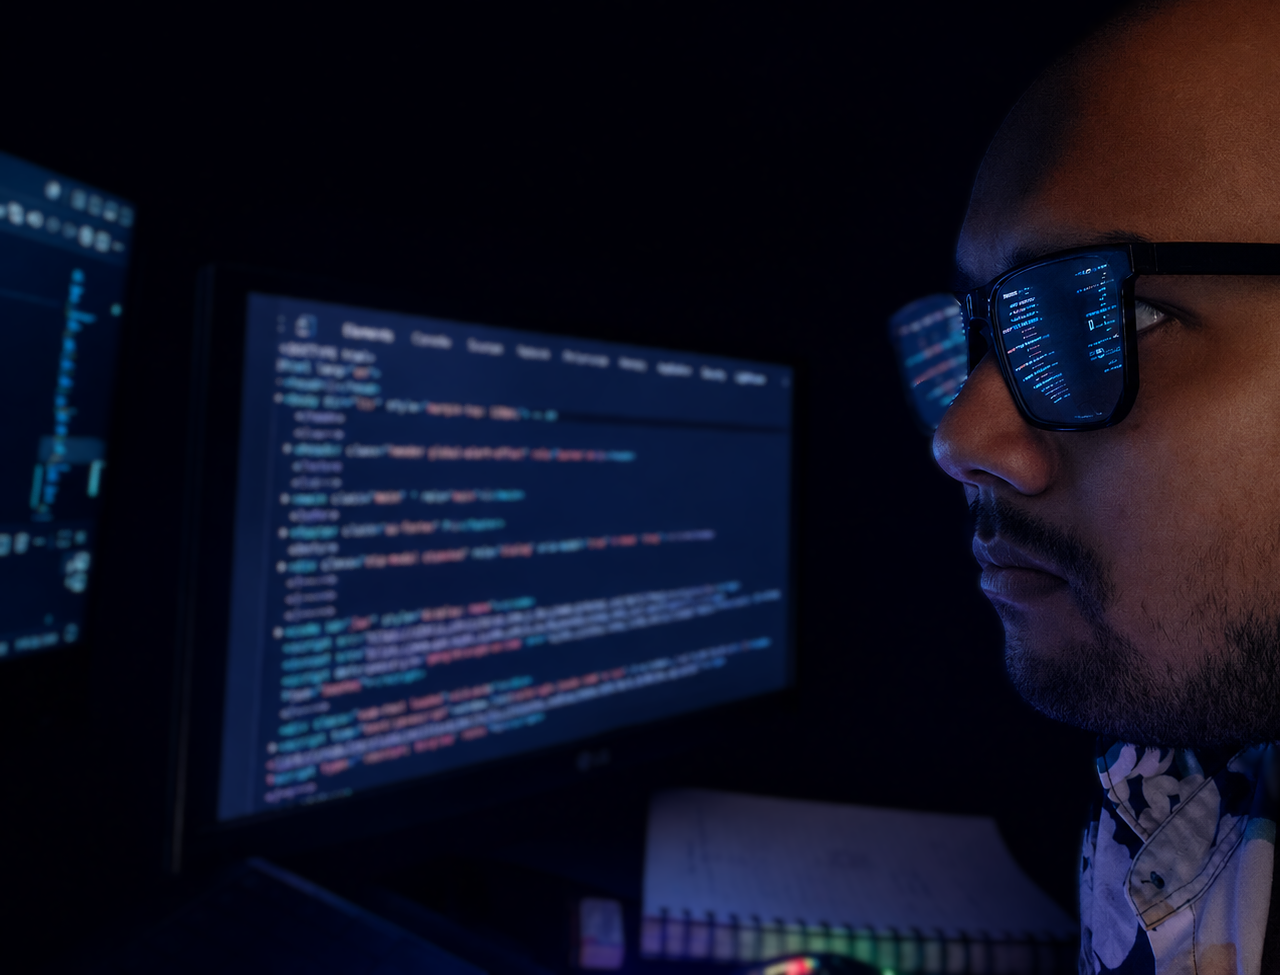
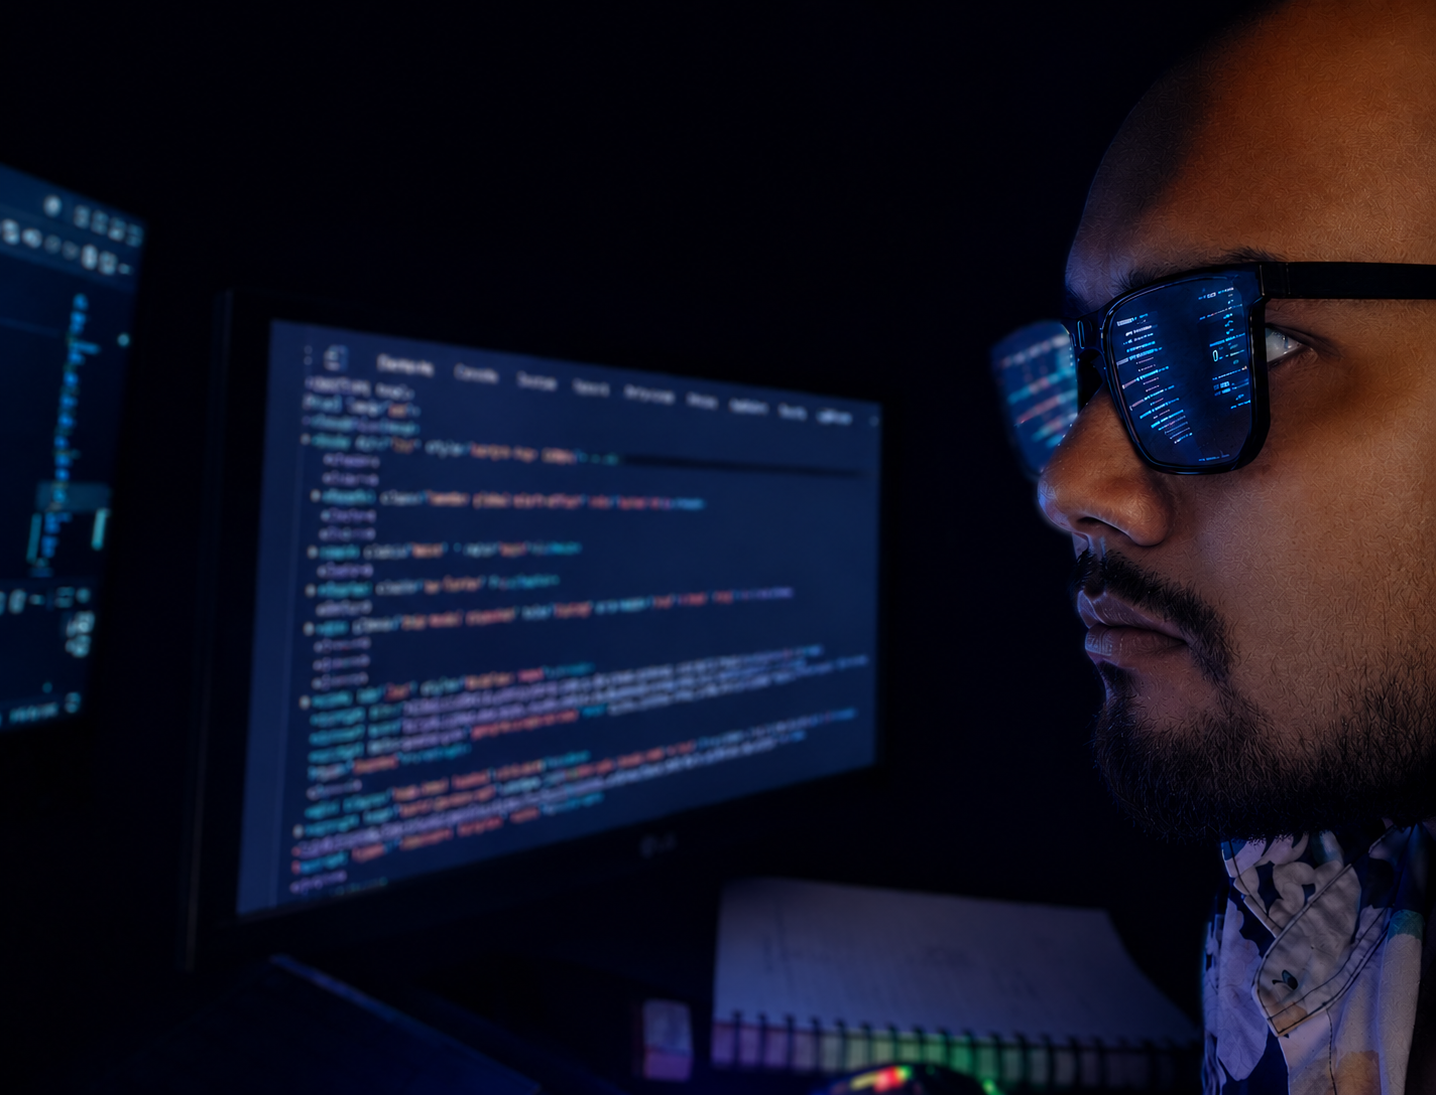
font

diff --git a/src/index.css b/src/index.css
@@ -2,14 +2,17 @@
 @import "tw-animate-css";
 @import "shadcn/tailwind.css";
 @import "@fontsource-variable/geist";
-
+@import "@fontsource/ubuntu/300.css";
+@import "@fontsource/ubuntu/400.css";
+@import "@fontsource/ubuntu/500.css";
+@import "@fontsource/ubuntu/700.css";
 @layer base {
   * { box-sizing: border-box; margin: 0; padding: 0; }
   html { scroll-behavior: smooth; }
   body {
     background: #0a0a0a;
     color: #f0ede8;
-    font-family: 'Space Grotesk', sans-serif;
+    font-family: 'Ubuntu', sans-serif;
     overflow-x: hidden;
  /*{  cursor: none;}*/
   }
@@ -18,7 +21,7 @@
   ::-webkit-scrollbar-thumb { background: #c8783a; border-radius: 2px; }
   ::selection { background: rgba(200,120,58,0.3); color: #f0ede8; }
 
-  input, textarea, button { font-family: 'Space Grotesk', sans-serif; }
+  input, textarea, button { font-family: 'Ubuntu', sans-serif; }
 }
 
 @layer utilities {